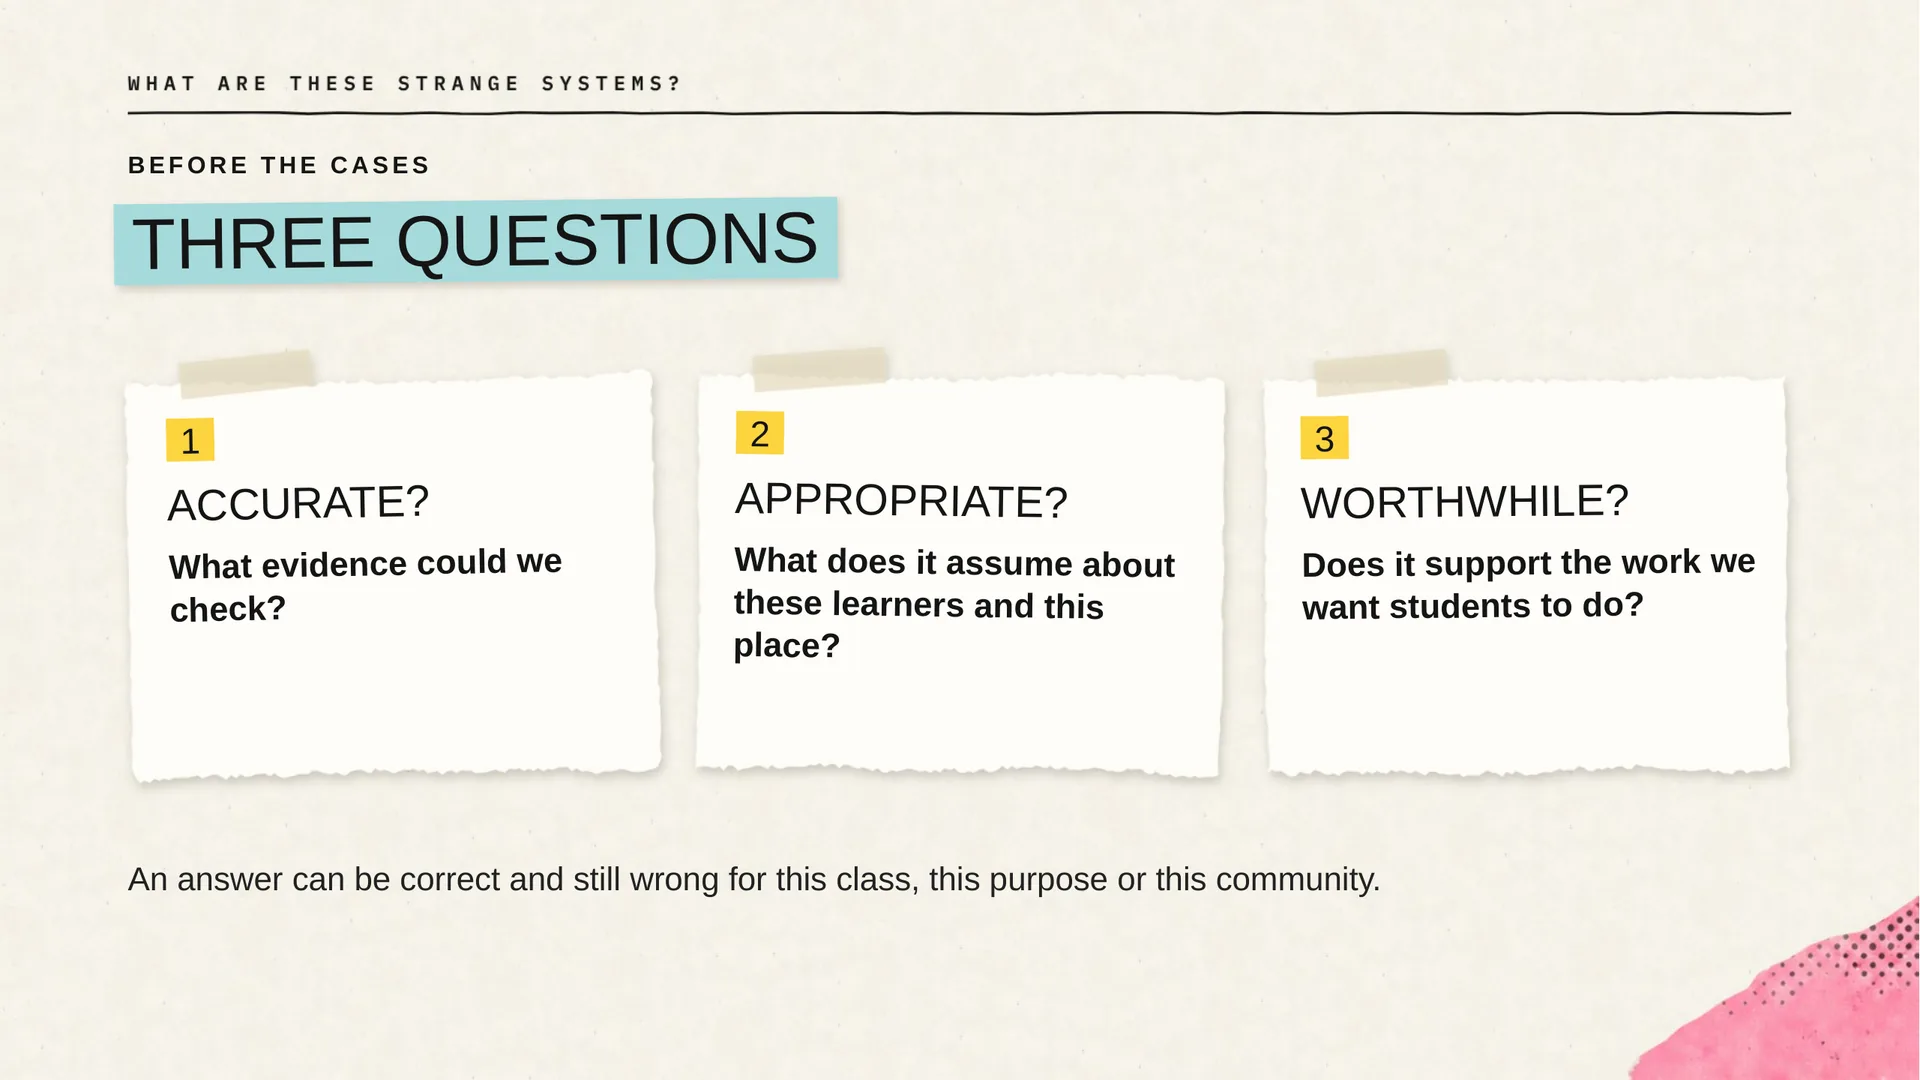
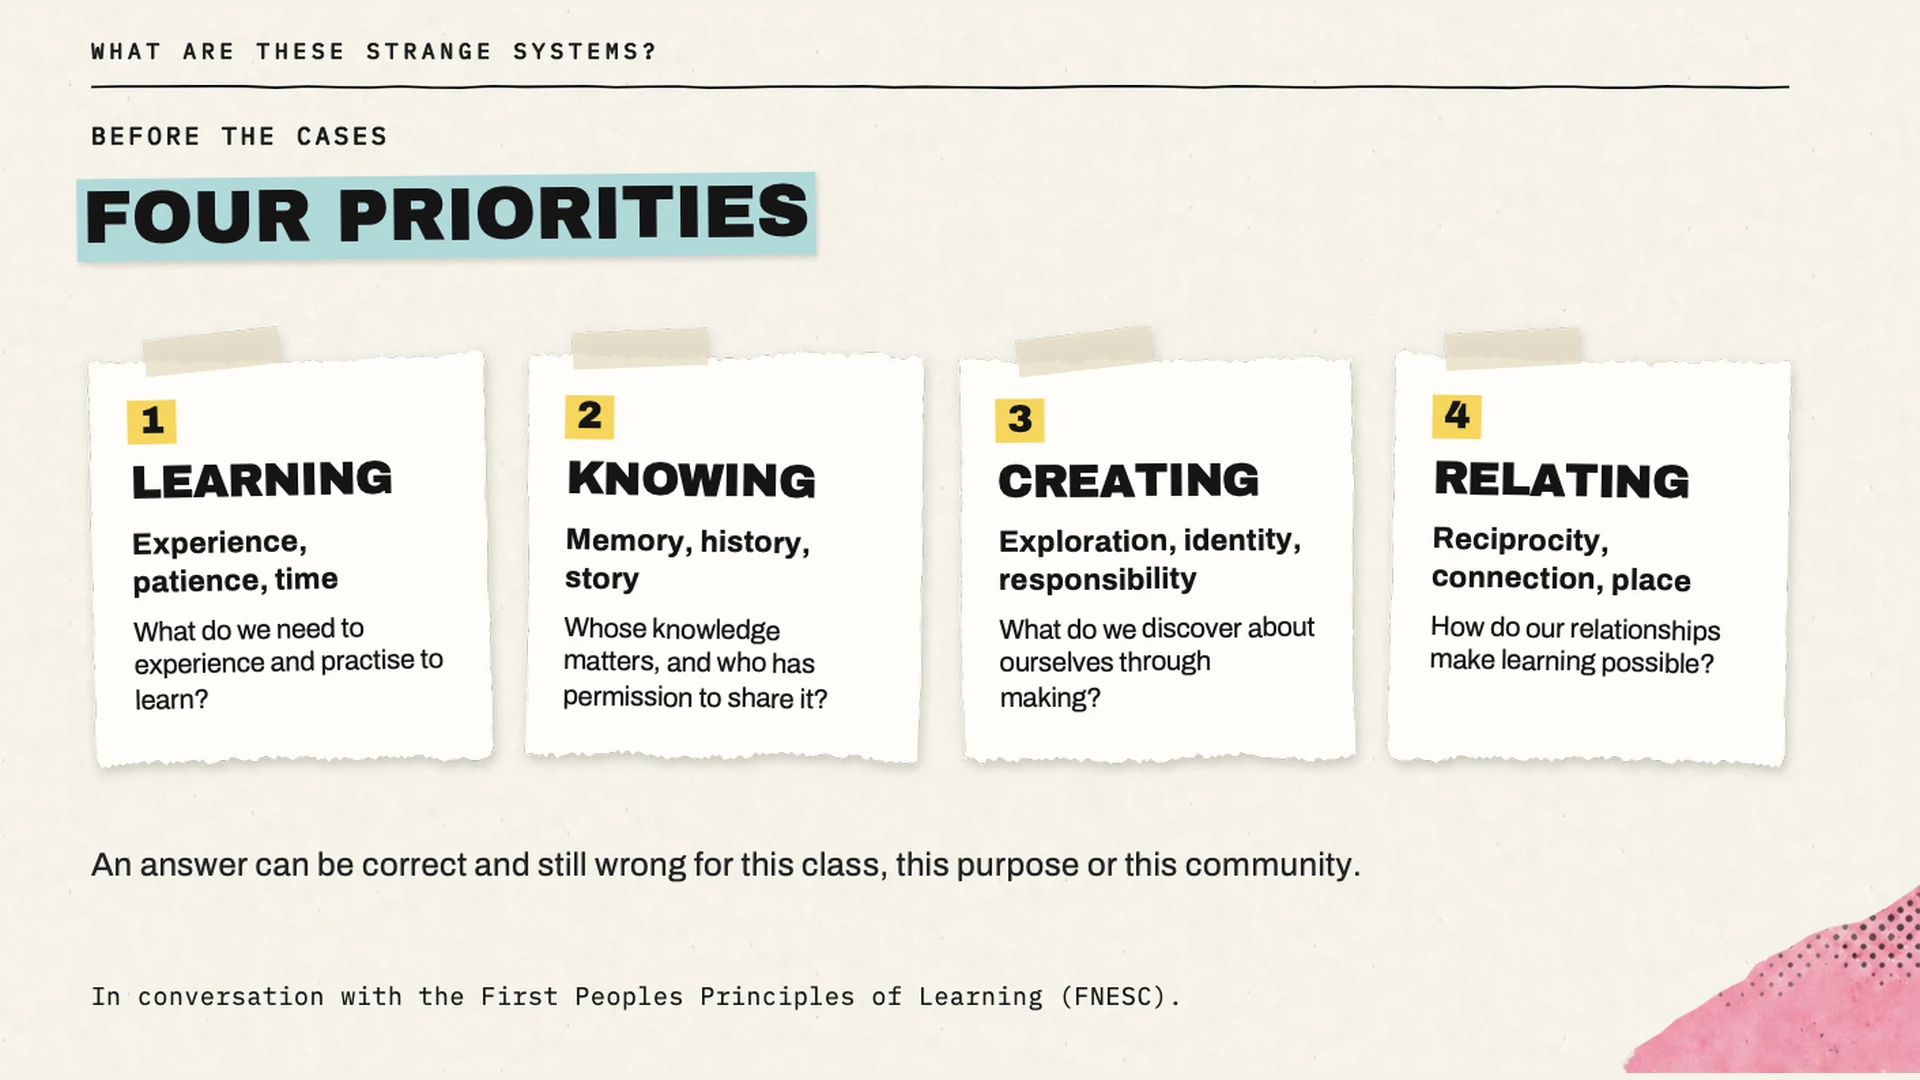
Strange systems slides: swap slide 21 (three questions) for four priorities
Claude-Session: https://claude.ai/code/session_0167unpgTKv8EVo7ATsSFzTr

diff --git a/systems.html b/systems.html
@@ -246,7 +246,7 @@ h1,h2,h3{font-family:var(--font-display);text-wrap:balance}
 </figure>
 <script>
 (function(){
-  var S=[{"src": "assets/talk/06.webp", "alt": "What are these strange systems, anyway? Plain language, the minimum we need, then we experiment."}, {"src": "assets/talk/07.webp", "alt": "What are we calling AI? Many things. Nested circles since the 1950s: AI (route planning, chess engines) contains machine learning (spam filters, recommendations), deep learning (face unlock, translation), generative AI (image makers) and language models (chatbots), where Copilot sits. AI is a big field with a long history. Chatbots like Copilot are a small, recent slice of it. Keep in mind: when someone says “AI”, ask: which one?"}, {"src": "assets/talk/08.webp", "alt": "The AI landscape: who makes what. A screenshot of the AI map on this site. Companies train models. Apps put those models in front of you. One model often sits behind many apps. Keep in mind: the app is not the model."}, {"src": "assets/talk/09.webp", "alt": "Under the interface, 1 of 8. What we see: Copilot. Microsoft’s AI assistant. Or several, wearing one name. Copilot snowmen stand on the tip of an iceberg outline. Keep in mind: “Copilot” is the tip of a very huge iceberg."}, {"src": "assets/talk/10.webp", "alt": "Under the interface, 2 of 8. Where do we meet it? Apps. Built into Word, Teams, Edge and Windows, with hidden instructions behind each. Keep in mind: built to feel helpful. That’s design, not evidence."}, {"src": "assets/talk/11.webp", "alt": "Under the interface, 3 of 8. What generates the text? Models. OpenAI, Anthropic or Microsoft. You don’t see which. Your prompt, plus web results and files, goes in between the app and the model. Keep in mind: models have cutoffs and keep changing."}, {"src": "assets/talk/12.webp", "alt": "Models, with a screenshot of the Copilot model menu: Auto, Quick response, Think deeper, and GPT models. Keep in mind: the application is not the model. The models keep changing."}, {"src": "assets/talk/13.webp", "alt": "Under the interface, 4 of 8. What shapes the model? Training. Learns to predict text, then gets tuned by human ratings. Keep in mind: tuned to please. Pleasing isn’t the same as right."}, {"src": "assets/talk/14.webp", "alt": "Under the interface, 5 of 8. What does it learn from? Data and training. Models learn patterns from large collections of data. Further training shapes which kinds of responses they are encouraged to produce. Keep in mind: what’s common in the data isn’t necessarily true. What’s rewarded in the training isn’t necessarily good for learning."}, {"src": "assets/talk/15.webp", "alt": "Under the interface, 6 of 8. Who makes it work? Human labour. Creators, annotators, moderators, maintainers. Keep in mind: “automatic” rests on hidden, low-paid work."}, {"src": "assets/talk/16.webp", "alt": "Under the interface, 7 of 8. What does it run on? Material infrastructure. Chips, data centres, energy, water, minerals. Keep in mind: the real costs are mostly undisclosed."}, {"src": "assets/talk/17.webp", "alt": "Under the interface, 8 of 8. Who decides? Power shapes every layer: ownership, incentives, rules, values. Keep in mind: Microsoft sets most of the rules. Schools still decide how, and whether. Ask the room: what else comes into the classroom with AI?"}, {"src": "assets/talk/18.webp", "alt": "How does it work? How does an output get made? The word “answer” is crossed out and replaced with “output”."}, {"src": "assets/talk/19.webp", "alt": "One token at a time. 1, context: hidden instructions, the chat so far, files, web results, memory, and the words so far. 2, the model looks at all the tokens so far, using patterns from training. 3, prediction: a score for every possible next token, for example write 31%, read 22%, share 14%, and thousands more. 4, pick one: usually a likely one, not always the top, and add it to the context. Then do it again, and again."}, {"src": "assets/talk/20.webp", "alt": "A probability, not an answer. It predicts what’s likely to come next, one piece at a time. Several answers are possible, and how we ask changes which one we get. Keep in mind: it doesn’t have an answer. It has a probability."}, {"src": "assets/talk/21.webp", "alt": "Before the cases: three questions. 1, accurate? What evidence could we check? 2, appropriate? What does it assume about these learners and this place? 3, worthwhile? Does it support the work we want students to do? An answer can be correct and still wrong for this class, this purpose or this community."}, {"src": "assets/talk/22.webp", "alt": "Try it live in Copilot: two framings. A: Explain photosynthesis in three sentences. B: What do scientists still disagree about when it comes to photosynthesis? Run A twice. Same answer? Then try B. What changed?"}, {"src": "assets/talk/23.webp", "alt": "What sounds right: plausible isn’t true. A model can explain something clearly without having checked it, or sound sure while hiding real disagreement. Keep in mind: fluent and confident isn’t the same as checked."}], i=0, img=document.getElementById('deck-img'), deck=document.getElementById('slides'),
+  var S=[{"src": "assets/talk/06.webp", "alt": "What are these strange systems, anyway? Plain language, the minimum we need, then we experiment."}, {"src": "assets/talk/07.webp", "alt": "What are we calling AI? Many things. Nested circles since the 1950s: AI (route planning, chess engines) contains machine learning (spam filters, recommendations), deep learning (face unlock, translation), generative AI (image makers) and language models (chatbots), where Copilot sits. AI is a big field with a long history. Chatbots like Copilot are a small, recent slice of it. Keep in mind: when someone says “AI”, ask: which one?"}, {"src": "assets/talk/08.webp", "alt": "The AI landscape: who makes what. A screenshot of the AI map on this site. Companies train models. Apps put those models in front of you. One model often sits behind many apps. Keep in mind: the app is not the model."}, {"src": "assets/talk/09.webp", "alt": "Under the interface, 1 of 8. What we see: Copilot. Microsoft’s AI assistant. Or several, wearing one name. Copilot snowmen stand on the tip of an iceberg outline. Keep in mind: “Copilot” is the tip of a very huge iceberg."}, {"src": "assets/talk/10.webp", "alt": "Under the interface, 2 of 8. Where do we meet it? Apps. Built into Word, Teams, Edge and Windows, with hidden instructions behind each. Keep in mind: built to feel helpful. That’s design, not evidence."}, {"src": "assets/talk/11.webp", "alt": "Under the interface, 3 of 8. What generates the text? Models. OpenAI, Anthropic or Microsoft. You don’t see which. Your prompt, plus web results and files, goes in between the app and the model. Keep in mind: models have cutoffs and keep changing."}, {"src": "assets/talk/12.webp", "alt": "Models, with a screenshot of the Copilot model menu: Auto, Quick response, Think deeper, and GPT models. Keep in mind: the application is not the model. The models keep changing."}, {"src": "assets/talk/13.webp", "alt": "Under the interface, 4 of 8. What shapes the model? Training. Learns to predict text, then gets tuned by human ratings. Keep in mind: tuned to please. Pleasing isn’t the same as right."}, {"src": "assets/talk/14.webp", "alt": "Under the interface, 5 of 8. What does it learn from? Data and training. Models learn patterns from large collections of data. Further training shapes which kinds of responses they are encouraged to produce. Keep in mind: what’s common in the data isn’t necessarily true. What’s rewarded in the training isn’t necessarily good for learning."}, {"src": "assets/talk/15.webp", "alt": "Under the interface, 6 of 8. Who makes it work? Human labour. Creators, annotators, moderators, maintainers. Keep in mind: “automatic” rests on hidden, low-paid work."}, {"src": "assets/talk/16.webp", "alt": "Under the interface, 7 of 8. What does it run on? Material infrastructure. Chips, data centres, energy, water, minerals. Keep in mind: the real costs are mostly undisclosed."}, {"src": "assets/talk/17.webp", "alt": "Under the interface, 8 of 8. Who decides? Power shapes every layer: ownership, incentives, rules, values. Keep in mind: Microsoft sets most of the rules. Schools still decide how, and whether. Ask the room: what else comes into the classroom with AI?"}, {"src": "assets/talk/18.webp", "alt": "How does it work? How does an output get made? The word “answer” is crossed out and replaced with “output”."}, {"src": "assets/talk/19.webp", "alt": "One token at a time. 1, context: hidden instructions, the chat so far, files, web results, memory, and the words so far. 2, the model looks at all the tokens so far, using patterns from training. 3, prediction: a score for every possible next token, for example write 31%, read 22%, share 14%, and thousands more. 4, pick one: usually a likely one, not always the top, and add it to the context. Then do it again, and again."}, {"src": "assets/talk/20.webp", "alt": "A probability, not an answer. It predicts what’s likely to come next, one piece at a time. Several answers are possible, and how we ask changes which one we get. Keep in mind: it doesn’t have an answer. It has a probability."}, {"src": "assets/talk/21.webp", "alt": "Before the cases: four priorities. 1, Learning: experience, patience, time. What do we need to experience and practise to learn? 2, Knowing: memory, history, story. Whose knowledge matters, and who has permission to share it? 3, Creating: exploration, identity, responsibility. What do we discover about ourselves through making? 4, Relating: reciprocity, connection, place. How do our relationships make learning possible? An answer can be correct and still wrong for this class, this purpose or this community. In conversation with the First Peoples Principles of Learning (FNESC)."}, {"src": "assets/talk/22.webp", "alt": "Try it live in Copilot: two framings. A: Explain photosynthesis in three sentences. B: What do scientists still disagree about when it comes to photosynthesis? Run A twice. Same answer? Then try B. What changed?"}, {"src": "assets/talk/23.webp", "alt": "What sounds right: plausible isn’t true. A model can explain something clearly without having checked it, or sound sure while hiding real disagreement. Keep in mind: fluent and confident isn’t the same as checked."}], i=0, img=document.getElementById('deck-img'), deck=document.getElementById('slides'),
       frame=deck.querySelector('.deck-frame'), count=deck.querySelector('.deck-count'), fs=deck.querySelector('.fs');
   function show(n){
     i=Math.max(0,Math.min(S.length-1,n));

diff --git a/_build/sections.py b/_build/sections.py
@@ -745,7 +745,7 @@ TALK_SLIDES = [
     (18, "How does it work? How does an output get made? The word “answer” is crossed out and replaced with “output”."),
     (19, "One token at a time. 1, context: hidden instructions, the chat so far, files, web results, memory, and the words so far. 2, the model looks at all the tokens so far, using patterns from training. 3, prediction: a score for every possible next token, for example write 31%, read 22%, share 14%, and thousands more. 4, pick one: usually a likely one, not always the top, and add it to the context. Then do it again, and again."),
     (20, "A probability, not an answer. It predicts what’s likely to come next, one piece at a time. Several answers are possible, and how we ask changes which one we get. Keep in mind: it doesn’t have an answer. It has a probability."),
-    (21, "Before the cases: three questions. 1, accurate? What evidence could we check? 2, appropriate? What does it assume about these learners and this place? 3, worthwhile? Does it support the work we want students to do? An answer can be correct and still wrong for this class, this purpose or this community."),
+    (21, "Before the cases: four priorities. 1, Learning: experience, patience, time. What do we need to experience and practise to learn? 2, Knowing: memory, history, story. Whose knowledge matters, and who has permission to share it? 3, Creating: exploration, identity, responsibility. What do we discover about ourselves through making? 4, Relating: reciprocity, connection, place. How do our relationships make learning possible? An answer can be correct and still wrong for this class, this purpose or this community. In conversation with the First Peoples Principles of Learning (FNESC)."),
     (22, "Try it live in Copilot: two framings. A: Explain photosynthesis in three sentences. B: What do scientists still disagree about when it comes to photosynthesis? Run A twice. Same answer? Then try B. What changed?"),
     (23, "What sounds right: plausible isn’t true. A model can explain something clearly without having checked it, or sound sure while hiding real disagreement. Keep in mind: fluent and confident isn’t the same as checked."),
 ]
